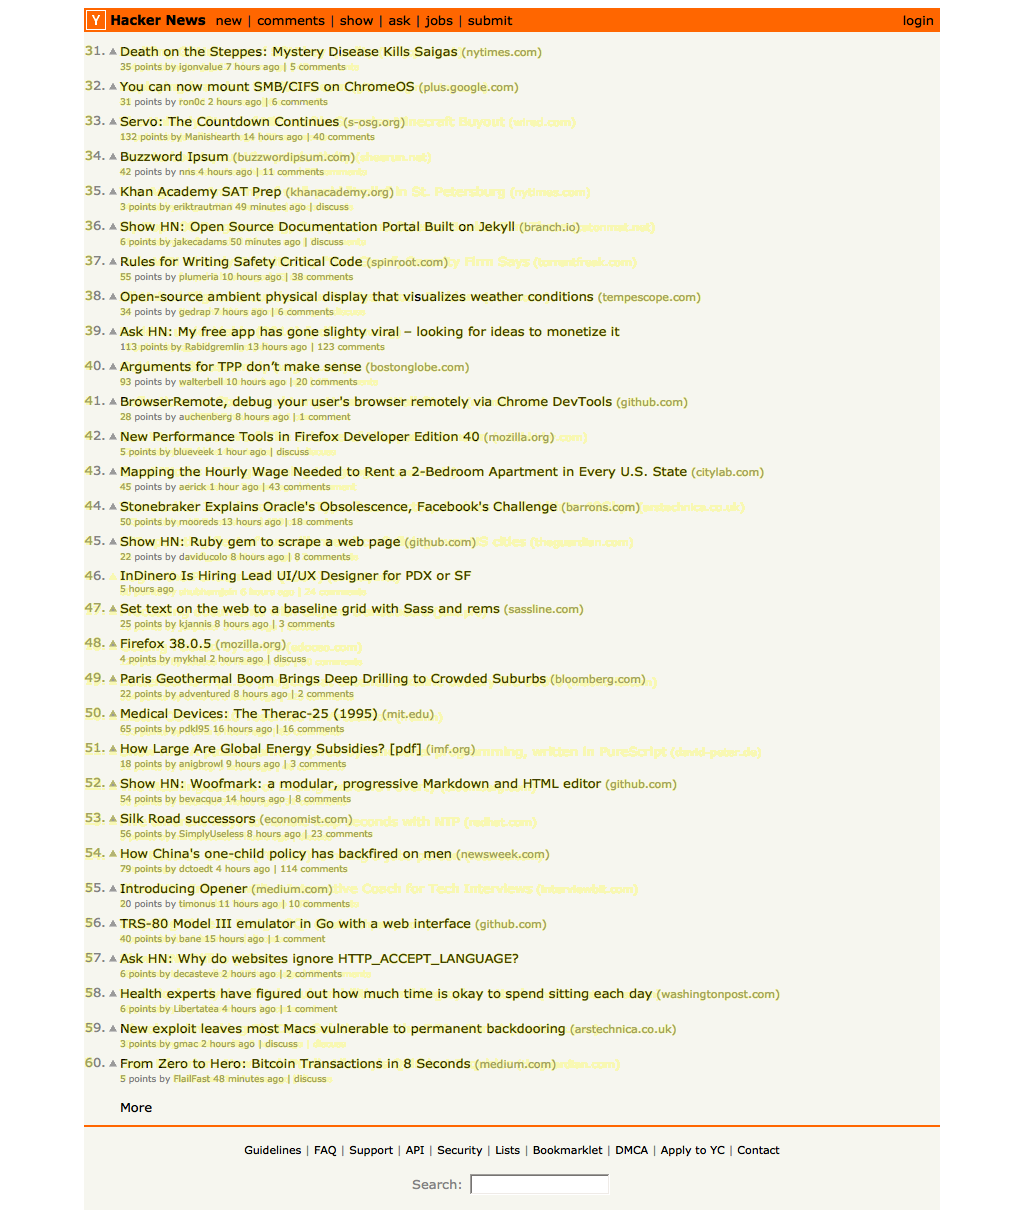
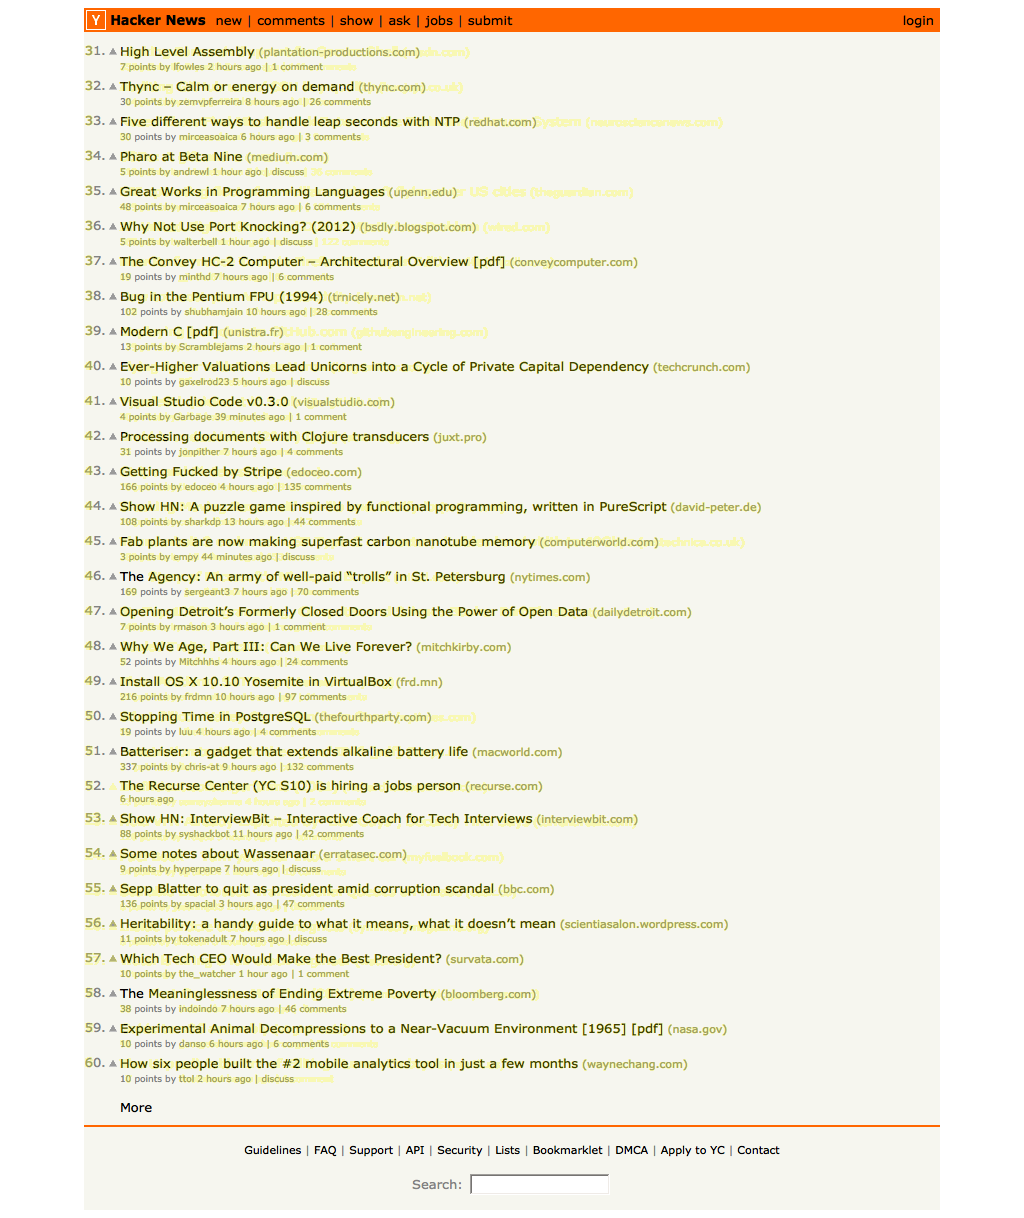
tested spookyJS not functioning correctly, tested start() without promise

Changed region(s): [[0.0625, 0.0312, 0.75, 0.9048]]

diff --git a/testGm.js b/testGm.js
@@ -1,6 +1,62 @@
 var phantom = require('phantom');
 var gm = require('gm');
 var q = require('q');
+var Spooky = require('spooky');
+// var casper = require('casper');
+
+// test spooky
+// var spooky = new Spooky({
+//         child: {
+//             transport: 'http'
+//         },
+//         casper: {
+//             logLevel: 'debug',
+//             verbose: true
+//         }
+//     }, function (err) {
+//         if (err) {
+//             e = new Error('Failed to initialize SpookyJS');
+//             e.details = err;
+//             throw e;
+//         }
+//         spooky.start('https://news.ycombinator.com/news?p=1');
+        
+//         spooky.then(function () {
+//         	console.log('test casper in spooky!!!!!');
+//             this.emit('hello', 'Hello, from ' + this.evaluate(function () {
+//                 return document.title;
+//             }));
+//         });
+//         spooky.run();
+//     });
+
+// spooky.on('error', function (e, stack) {
+// 	console.log('errors?????');
+//     console.error(e);
+
+//     if (stack) {
+//         console.log(stack);
+//     }
+// });
+
+// // Uncomment this block to see all of the things Casper has to say.
+// // There are a lot.
+// // He has opinions.
+// spooky.on('console', function (line) {
+//     console.log(line);
+// });
+
+// spooky.on('hello', function (greeting) {
+//     console.log(greeting);
+// });
+
+// spooky.on('log', function (log) {
+//     if (log.space === 'remote') {
+//         console.log(log.message.replace(/ \- .*/, ''));
+//     }
+// });
+// end test
+
 
 var url1 = "https://news.ycombinator.com/news?p=1";
 var url2 = "https://news.ycombinator.com/news?p=2";
@@ -8,11 +64,11 @@ var url2 = "https://news.ycombinator.com/news?p=2";
 // var url1 = "http://lei-clearsky.github.io/nanodegree-fewd-p2/";
 // var url2 = "http://lei-clearsky.github.io/lei-resume/";
 
-var img1path = 'img5.png';
-var img2path = 'img6.png';
+var img1path = 'img7.png';
+var img2path = 'img8.png';
 
 function getSnapshot(url, img) {
-    var df = q.defer();
+    // var df = q.defer();
 
     phantom.create(function(ph) {
         ph.createPage(function(page) {
@@ -22,12 +78,12 @@ function getSnapshot(url, img) {
                   page.render(img);
                   ph.exit();
 
-                  df.resolve(img);
+                  // df.resolve(img);
               });
         });
     });
 
-    return df.promise;
+    // return df.promise;
 };
 
 function createDiff(img1, img2) {
@@ -46,23 +102,34 @@ function createDiff(img1, img2) {
       });
 };
 
+// function start() {
+//     var promises = [];
+
+//     promises.push(getSnapshot(url1, img1path));
+//     promises.push(getSnapshot(url2, img2path));
+
+//       q.all(promises).then(function(results) {
+
+//           console.log("Comparing " + results[0] + " and " + results[1] + "....");
+//           // Eventhough I used promises to make sure createDiff() is not called until page.render() has been called,
+//           // I was not able to find a way to make sure phantomjs was finished writing screenshots before gm.compare() was called
+//           // Need better solution
+//           setTimeout(function() { 
+//             createDiff(results[0], results[1]);
+//           }, 1000);
+
+//       });
+// }
+
 function start() {
-    var promises = [];
 
-    promises.push(getSnapshot(url1, img1path));
-    promises.push(getSnapshot(url2, img2path));
-
-      q.all(promises).then(function(results) {
-
-          console.log("Comparing " + results[0] + " and " + results[1] + "....");
-          // Eventhough I used promises to make sure createDiff() is not called until page.render() has been called,
-          // I was not able to find a way to make sure phantomjs was finished writing screenshots before gm.compare() was called
-          // Need better solution
-          setTimeout(function() { 
-            createDiff(results[0], results[1]);
-          }, 1000);
-
-      });
+	getSnapshot(url1, img1path);
+	getSnapshot(url2, img2path);
+	
+	setTimeout(function() { 
+        createDiff(img1path, img2path);
+    }, 3000);
+    
 }
 
 start();
